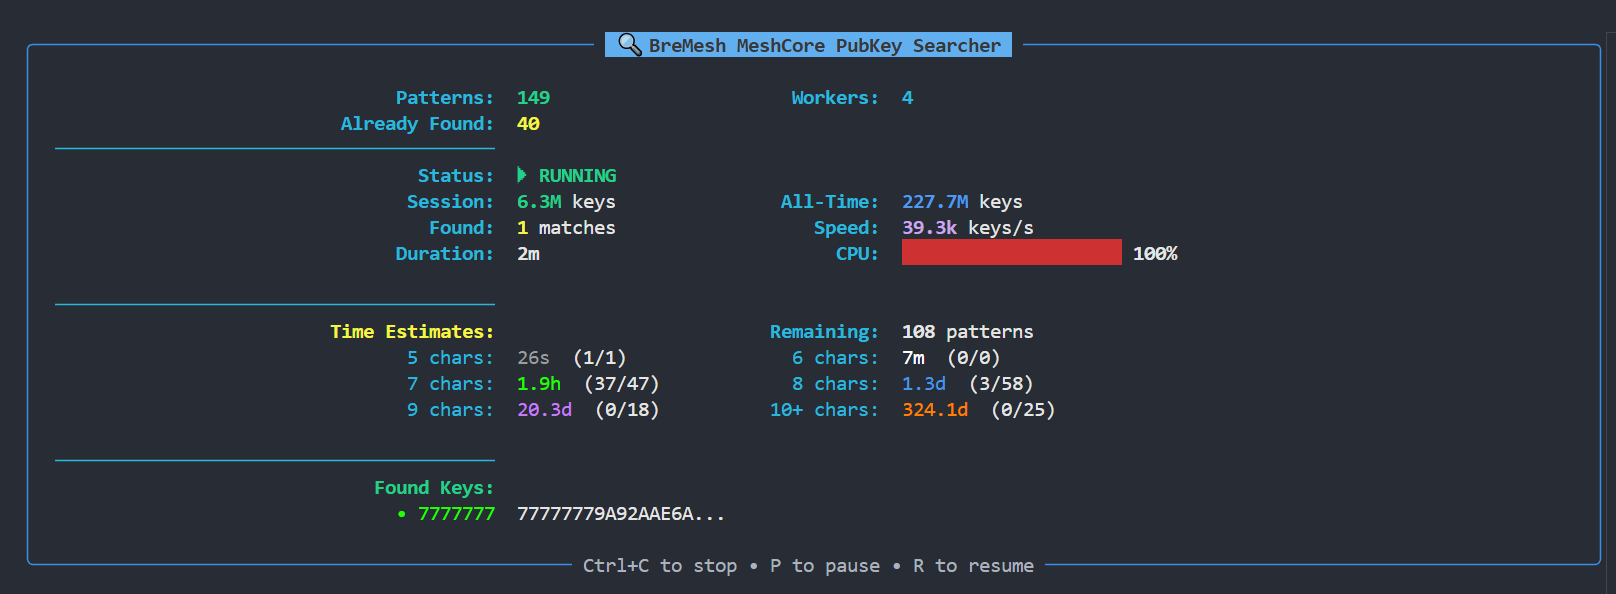
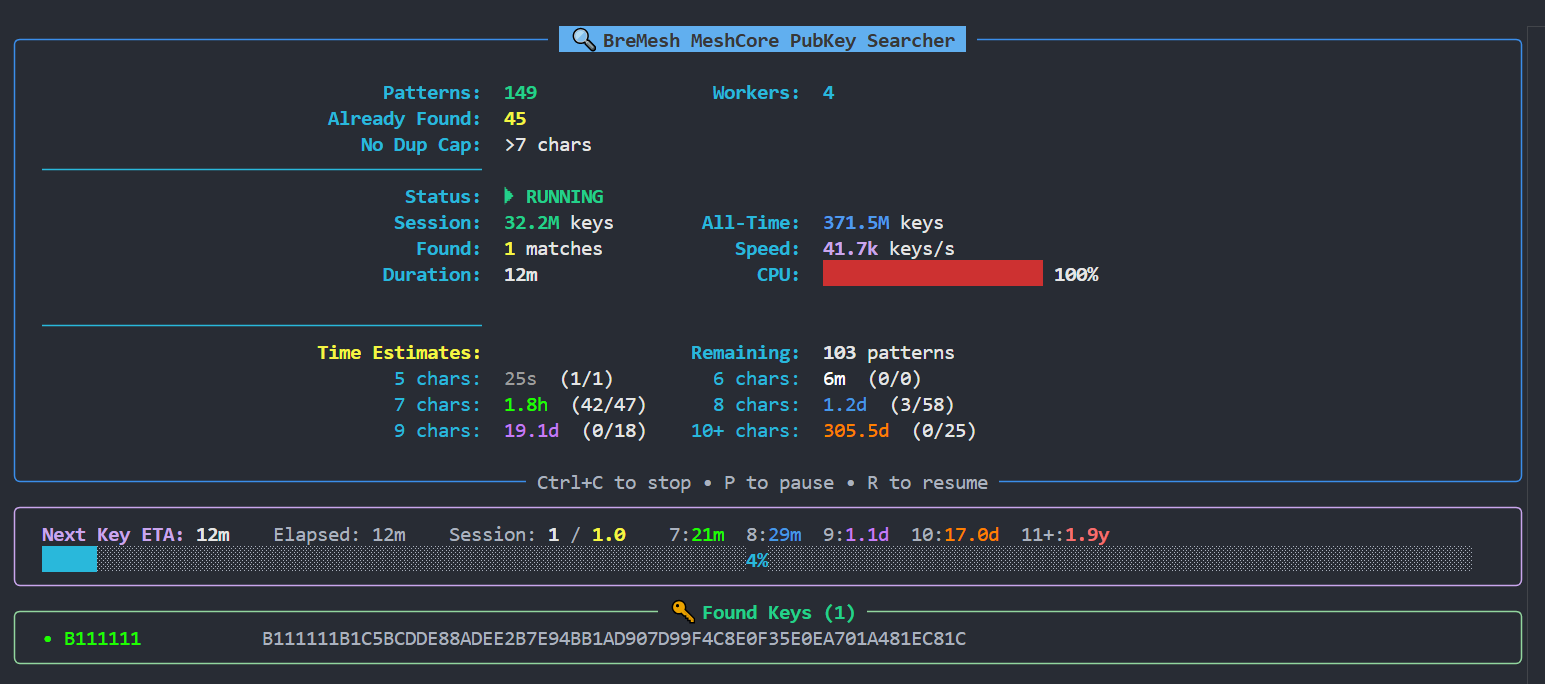
Enhance README and key searcher script: Add per-length ETA timers, session progress tracking, and hot-reload functionality for patterns

Changed region(s): [[0.0, 0.0303, 0.9942, 0.9697], [0.435, 0.303, 0.7456, 0.4545]]

diff --git a/scripte/PubKeySearcher/key_searcher.py b/scripte/PubKeySearcher/key_searcher.py
@@ -34,6 +34,7 @@ class KeySearcher:
     def __init__(self, patterns_file: str = "searchFor.txt", output_dir: str = "found_keys", max_pattern_length: int = 7, single_pattern: str = None, verbose: bool = False):
         self.single_pattern_mode = single_pattern is not None
         self.verbose = verbose
+        self.patterns_file = patterns_file  # Store for hot-reload
         if single_pattern:
             self.patterns = {single_pattern.upper()}
             print(f"Searching for single pattern: {single_pattern.upper()}")
@@ -134,7 +135,6 @@ class KeySearcher:
         # Track remaining pattern lengths for ETA calculation
         remaining_lengths = list(startup_info['remaining_pattern_lengths'])
         last_find_time = start_time  # Time of last found key (or start)
-        found_credits = 0.0  # Each found key adds 1.0 (100%) credit
         
         def build_panel():
             """Build the combined stats panel"""
@@ -162,6 +162,10 @@ class KeySearcher:
                     "[bold bright_cyan]Already Found:[/bold bright_cyan]", f"[bold yellow]{startup_info['num_existing']}[/bold yellow]",
                     "", ""
                 )
+            content.add_row(
+                "[bold bright_cyan]No Dup Cap:[/bold bright_cyan]", f"[dim]>{startup_info['max_pattern_length']} chars[/dim]",
+                "", ""
+            )
             
             # Separator
             content.add_row("[dim]" + "─" * 40 + "[/dim]", "", "", "")
@@ -193,7 +197,7 @@ class KeySearcher:
                 "[bold bright_cyan]CPU:[/bold bright_cyan]", f"[{bar_color}]{bar}[/{bar_color}] [bold white]{cpu_percent:.0f}%[/bold white]"
             )
             
-            # WoW-style rarity colors
+            # Rarity colors by pattern length
             COLOR_ARTIFACT = "#FF8000"   # 10+ chars - Orange
             COLOR_EPIC = "#A335EE"       # 9 chars - Purple
             COLOR_RARE = "#0070DD"       # 8 chars - Blue
@@ -240,6 +244,7 @@ class KeySearcher:
             
             # Calculate ETA for next key based on remaining patterns
             # Combined probability = sum(1/16^L for each remaining pattern)
+            progress_panel = None  # Default: no progress panel
             if keys_per_sec > 0 and remaining_lengths:
                 combined_prob = sum(1.0 / (16 ** plen) for plen in remaining_lengths)
                 if combined_prob > 0:
@@ -247,17 +252,19 @@ class KeySearcher:
                     expected_seconds = expected_keys / keys_per_sec
                     time_since_last = datetime.now().timestamp() - last_find_time
                     
-                    # Progress can exceed 100% or go negative (if key found early)
-                    raw_progress = (time_since_last / expected_seconds) if expected_seconds > 0 else 0
-                    progress = raw_progress - found_credits  # Can be negative!
+                    # Session expected: how many keys should we have found by now?
+                    session_elapsed = datetime.now().timestamp() - start_time
+                    session_expected_keys = session_elapsed * keys_per_sec * combined_prob
+                    
+                    # Progress: time since last find / expected time per key
+                    # Resets to 0 when a key is found, grows towards 100%
+                    progress = (time_since_last / expected_seconds) if expected_seconds > 0 else 0
                     
                     # Bar is capped at 0-100%, but percentage display can go outside
                     bar_progress = max(0.0, min(1.0, progress))
                     
                     # Color changes based on progress
-                    if progress < 0:
-                        bar_color = "bright_green"  # Ahead of schedule!
-                    elif progress < 0.5:
+                    if progress < 0.5:
                         bar_color = "bright_cyan"
                     elif progress < 1.0:
                         bar_color = "bright_yellow"
@@ -294,13 +301,46 @@ class KeySearcher:
                     
                     progress_bar = "".join(bar_chars)
                     
-                    # Progress panel content
-                    progress_text = f"[bold bright_magenta]Next Key ETA:[/bold bright_magenta] [bold white]{eta_str}[/bold white]    [dim]Elapsed:[/dim] [dim white]{elapsed_str}[/dim white]\n{progress_bar}"
+                    # Build per-length ETA timers with rarity colors
+                    from collections import Counter
+                    len_counts = Counter(remaining_lengths)
+                    eta_timers = []
+                    # Collect counts for 11+ separately
+                    count_11_plus = sum(c for l, c in len_counts.items() if l >= 11)
+                    for length in sorted(len_counts.keys()):
+                        if length > 10:
+                            continue  # Skip individual lengths > 10, handled as 11+
+                        count = len_counts[length]
+                        if count > 0 and keys_per_sec > 0:
+                            prob = count / (16 ** length)
+                            eta_secs = 1.0 / (prob * keys_per_sec)
+                            # Color based on length
+                            if length >= 10:
+                                color = COLOR_ARTIFACT
+                            elif length == 9:
+                                color = COLOR_EPIC
+                            elif length == 8:
+                                color = COLOR_RARE
+                            elif length == 7:
+                                color = COLOR_UNCOMMON
+                            elif length == 6:
+                                color = COLOR_COMMON
+                            else:
+                                color = COLOR_POOR
+                            eta_timers.append(f"[dim]{length}:[/dim][{color}]{KeySearcher.format_time(eta_secs)}[/{color}]")
+                    # Add 11+ in red if there are any patterns >= 11
+                    if count_11_plus > 0 and keys_per_sec > 0:
+                        prob_11 = count_11_plus / (16 ** 11)
+                        eta_secs_11 = 1.0 / (prob_11 * keys_per_sec)
+                        eta_timers.append(f"[dim]11+:[/dim][bold red]{KeySearcher.format_time(eta_secs_11)}[/bold red]")
+                    eta_timers_str = "  ".join(eta_timers) if eta_timers else ""
+                    
+                    # Progress panel content with expected vs found keys
+                    expected_found_str = f"[dim]Session:[/dim] [bold white]{last_found}[/bold white] [dim]/[/dim] [bold yellow]{session_expected_keys:.2f}[/bold yellow]"
+                    progress_text = f"[bold bright_magenta]Next Key ETA:[/bold bright_magenta] [bold white]{eta_str}[/bold white]    [dim]Elapsed:[/dim] [dim white]{elapsed_str}[/dim white]    {expected_found_str}    {eta_timers_str}\n{progress_bar}"
                     
                     # Show formula only in verbose mode
                     if startup_info.get('verbose', False):
-                        from collections import Counter
-                        len_counts = Counter(remaining_lengths)
                         formula_parts = []
                         for length in sorted(len_counts.keys()):
                             count = len_counts[length]
@@ -322,7 +362,7 @@ class KeySearcher:
                         
                         for pattern, preview in found_keys_list[-5:]:
                             pattern_len = len(pattern)
-                            # WoW-style rarity indicators based on pattern length
+                            # Rarity indicators based on pattern length
                             if pattern_len >= 10:
                                 symbol = f"[{COLOR_ARTIFACT}]⭐💎[/{COLOR_ARTIFACT}]"
                                 pattern_style = f"[bold {COLOR_ARTIFACT}]"
@@ -365,7 +405,7 @@ class KeySearcher:
                     
                     return Group(main_panel, progress_panel)
             
-            # No progress bar case - but might have found keys
+            # No progress panel case (keys_per_sec == 0 or no remaining patterns)
             if found_keys_list:
                 found_content = Table.grid(padding=(0, 2))
                 found_content.add_column(justify="left")
@@ -430,6 +470,15 @@ class KeySearcher:
                                 live.update(build_panel())
                                 continue
                             
+                            # Handle pattern hot-reload notification
+                            if msg.get('patterns_reloaded'):
+                                startup_info['num_patterns'] = msg['new_count']
+                                # Add new patterns to remaining_lengths (assuming average length)
+                                for _ in range(msg['added']):
+                                    remaining_lengths.append(7)  # Default assumption for new patterns
+                                live.update(build_panel())
+                                continue
+                            
                             last_total = msg.get('total', last_total)
                             last_found = msg.get('found', last_found)
                             
@@ -447,8 +496,8 @@ class KeySearcher:
                                 # Patterns > max_pattern_length can be found multiple times
                                 if plen <= startup_info['max_pattern_length'] and plen in remaining_lengths:
                                     remaining_lengths.remove(plen)
-                                # Add 100% credit for found key (reduces displayed progress by 100%)
-                                found_credits += 1.0
+                                # Reset last_find_time to now (for Elapsed timer)
+                                last_find_time = datetime.now().timestamp()
                             
                             live.update(build_panel())
                     
@@ -460,14 +509,22 @@ class KeySearcher:
             pass
     
     def generate_and_check_key(self, worker_id: int, shared_counter, shared_found,
-                                found_patterns_dict, session_found_list, start_time,
+                                found_patterns_dict, session_found_list, shared_patterns, start_time,
                                 display_queue, pause_event, stop_event, single_pattern_mode) -> None:
         """Worker process for key generation"""
         local_checked = 0
+        local_patterns_cache = set(shared_patterns.keys())  # Local cache for performance
+        last_cache_update = 0
         
         try:
             while not stop_event.is_set():
                 pause_event.wait()
+                
+                # Refresh pattern cache every 10000 keys
+                local_checked_total = local_checked
+                if local_checked_total - last_cache_update >= 10000:
+                    local_patterns_cache = set(shared_patterns.keys())
+                    last_cache_update = local_checked_total
                 
                 private_key = ed25519.Ed25519PrivateKey.generate()
                 public_key = private_key.public_key()
@@ -484,8 +541,8 @@ class KeySearcher:
                     encryption_algorithm=serialization.NoEncryption()
                 )
                 
-                for pattern in self.patterns:
-                    if public_hex.startswith(pattern.upper()):
+                for pattern in local_patterns_cache:
+                    if public_hex.startswith(pattern):
                         if len(pattern) <= self.max_pattern_length:
                             if pattern in found_patterns_dict:
                                 continue
@@ -619,15 +676,49 @@ class KeySearcher:
         manager = mp.Manager()
         found_patterns_dict = manager.dict()
         session_found_list = manager.list()
+        shared_patterns = manager.dict()  # Shared patterns for hot-reload
         display_queue = manager.Queue()
         pause_event = mp.Event()
         pause_event.set()
         stop_event = mp.Event()  # For single pattern mode auto-exit
         
+        # Initialize shared patterns
+        for pattern in self.patterns:
+            shared_patterns[pattern.upper()] = True
+        
         for pattern in existing_patterns:
             found_patterns_dict[pattern] = True
         
         start_time = datetime.now().timestamp()
+        
+        # Pattern hot-reload thread (reload every 30 seconds)
+        def pattern_reload_thread():
+            if self.single_pattern_mode:
+                return  # No reload in single pattern mode
+            last_count = len(self.patterns)
+            while not stop_event.is_set():
+                time.sleep(30)  # Check every 30 seconds
+                if stop_event.is_set():
+                    break
+                try:
+                    new_patterns = self.load_patterns(self.patterns_file)
+                    added = 0
+                    for p in new_patterns:
+                        p_upper = p.upper()
+                        if p_upper not in shared_patterns:
+                            shared_patterns[p_upper] = True
+                            added += 1
+                    if added > 0:
+                        display_queue.put({
+                            'patterns_reloaded': True,
+                            'new_count': len(shared_patterns),
+                            'added': added
+                        })
+                except Exception:
+                    pass  # Ignore reload errors
+        
+        reload_thread = threading.Thread(target=pattern_reload_thread, daemon=True)
+        reload_thread.start()
         
         # Keyboard listener
         def keyboard_listener():
@@ -663,7 +754,7 @@ class KeySearcher:
                 p = mp.Process(
                     target=self.generate_and_check_key,
                     args=(i, shared_counter, shared_found, found_patterns_dict,
-                          session_found_list, start_time, display_queue, pause_event,
+                          session_found_list, shared_patterns, start_time, display_queue, pause_event,
                           stop_event, self.single_pattern_mode)
                 )
                 p.start()

diff --git a/scripte/PubKeySearcher/README.md b/scripte/PubKeySearcher/README.md
@@ -39,13 +39,16 @@ Perfekt für einprägsame Keys für **MeshCore** Repeater!
 - **Zeitschätzungen** - Berechnete Wahrscheinlichkeiten mit Fortschritt (gefunden/gesucht)
 - **Remaining Counter** - Zeigt verbleibende Patterns insgesamt und pro Kategorie
 - **Next Key ETA** - Mathematische Schätzung bis zum nächsten Fund mit dynamischem Progressbar
+- **Per-Length ETAs** - Einzelne ETA-Timer pro Pattern-Länge (5-10, 11+ in Rot)
+- **Session Progress** - Zeigt gefundene vs. erwartete Keys (z.B. `1 / 1.4`)
 - **Verbose Mode** - Zeigt die ETA-Berechnungsformel mit `-v` Flag
 
 ### Verwaltung
 
 - **Pattern-Datei** - Externe Musterliste für einfache Anpassung
-- **Duplikat-Erkennung** - Verhindert doppelte Funde für kurze Patterns (≤7 Zeichen)
-- **Mehrfach-Funde** - Patterns >7 Zeichen können beliebig oft gefunden werden
+- **Hot-Reload** - Pattern-Datei wird alle 30 Sekunden neu geladen (neue Patterns werden automatisch hinzugefügt)
+- **Duplikat-Erkennung** - Verhindert doppelte Funde für kurze Patterns (konfigurierbar via `--max-pattern-length`)
+- **No Dup Cap** - Patterns oberhalb der max-pattern-length können beliebig oft gefunden werden
 - **Persistente Speicherung** - Gefundene Keys werden sofort gespeichert
 - **JSON-Export** - MeshCore-kompatibles Import-Format
 
@@ -166,25 +169,36 @@ BREMESH
 
 Das Interface besteht aus drei separaten Panels:
 
-1. **Hauptstatistiken (blauer Rahmen)** - Config, Patterns, Status, Session/All-Time Stats, Time Estimates
-2. **ETA Progressbar (magenta Rahmen)** - Expected/Elapsed Zeit mit dynamischem Fortschrittsbalken
-3. **Found Keys (grüner Rahmen)** - Gefundene Keys mit vollständigem 64-Zeichen Public Key
+1. **Hauptstatistiken (blauer Rahmen)** - Config, Patterns, No Dup Cap, Status, Session/All-Time Stats, Time Estimates
+2. **ETA Progressbar (magenta Rahmen)** - Expected/Elapsed Zeit, Session Progress, Per-Length ETAs, Fortschrittsbalken
+3. **Found Keys (gruener Rahmen)** - Gefundene Keys mit vollstaendigem 64-Zeichen Public Key
 
 ![Interface](interface.png)
 
 **Legende:**
-- **Time Estimates:** `Zeitschätzung (gefunden/gesucht)` pro Längen-Kategorie
-- **Next Key ETA:** Mathematisch erwartete Zeit bis zum nächsten Fund basierend auf kombinierter Wahrscheinlichkeit:
+
+- **No Dup Cap:** Zeigt ab welcher Pattern-Laenge Mehrfach-Funde erlaubt sind
+- **Time Estimates:** `Zeitschaetzung (gefunden/gesucht)` pro Laengen-Kategorie
+- **Session:** Zeigt `gefunden / erwartet` Keys in der aktuellen Session
+- **Per-Length ETAs:** Einzelne ETA-Timer fuer jede Pattern-Laenge in Rarity-Farben:
+  - Grau: 5 Zeichen oder weniger
+  - Weiss: 6 Zeichen
+  - Gruen: 7 Zeichen
+  - Blau: 8 Zeichen
+  - Lila: 9 Zeichen
+  - Orange: 10 Zeichen
+  - Rot: 11+ Zeichen
+- **Next Key ETA:** Mathematisch erwartete Zeit bis zum naechsten Fund basierend auf kombinierter Wahrscheinlichkeit:
   ```
-  ETA = 1 / ((n1/16^L1 + n2/16^L2 + ...) × keys_per_sec)
+  ETA = 1 / ((n1/16^L1 + n2/16^L2 + ...) x keys_per_sec)
   ```
-- **Progressbar:** Zeigt verstrichene Zeit im Verhältnis zur erwarteten Zeit
+- **Progressbar:** Zeigt verstrichene Zeit im Verhaeltnis zur erwarteten Zeit
   - Cyan (<50%): unterwegs
   - Gelb (50-100%): bald erwartet
-  - Grün (>100% oder negativ): überfällig oder früher Fund
+  - Gruen (>100% oder negativ): ueberfaellig oder frueher Fund
 - **Credits System:** Bei jedem gefundenen Key wird der Fortschritt um 100% reduziert
-  - Progress kann negativ werden (Key früher als erwartet gefunden)
-  - Progress >100% bedeutet überfällig
+  - Progress kann negativ werden (Key frueher als erwartet gefunden)
+  - Progress >100% bedeutet ueberfaellig
 
 ## Ausgabe-Format
 
